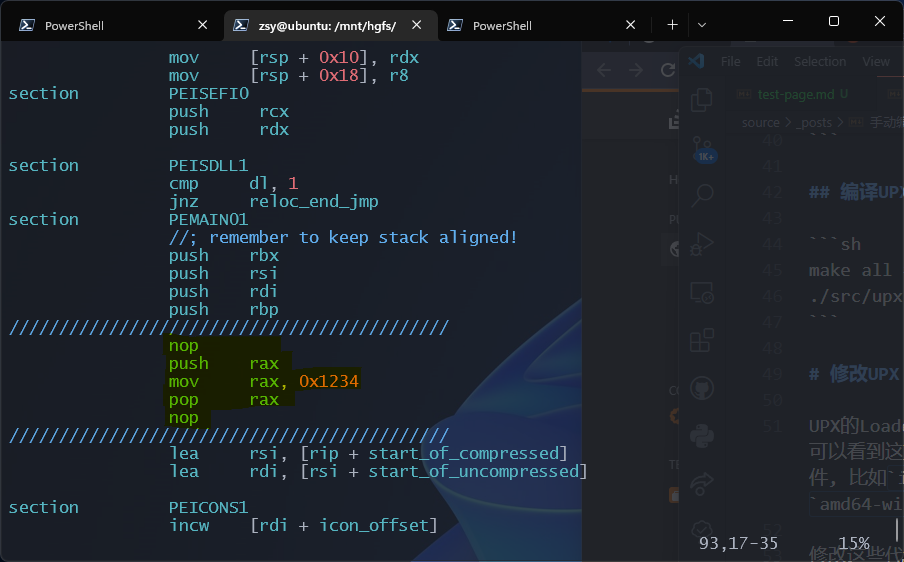
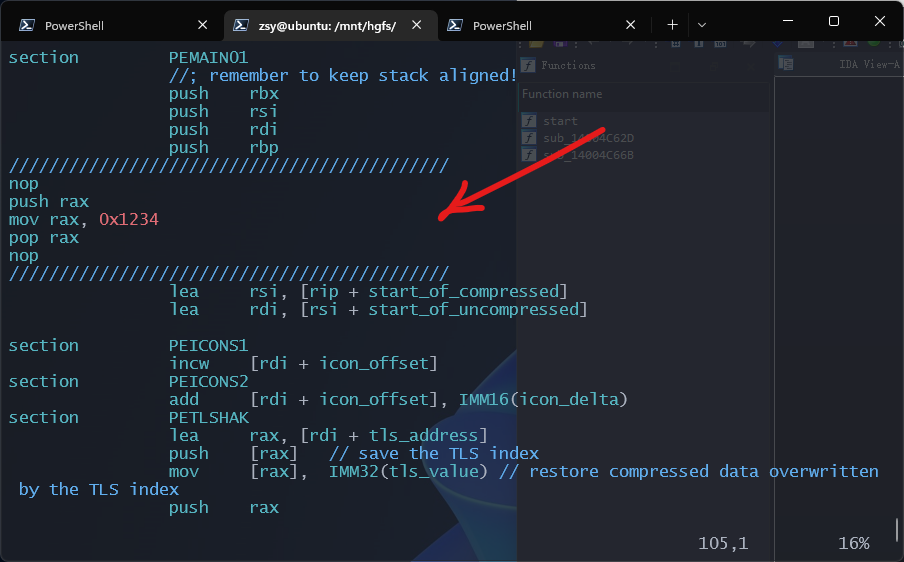
Site updated: 2022-07-14 14:29:14

diff --git a/2022/07/14/手动编译UPX并修改Loader/index.html b/2022/07/14/手动编译UPX并修改Loader/index.html
@@ -87,8 +87,9 @@
 <meta property="og:description" content="编译UPX源码系统环境:  Ubuntu 22.04 Python 2 Gcc 11, G++ 11, Make 4.3  获取UPX源码123git clone --recursive https:&#x2F;&#x2F;github.com&#x2F;upx&#x2F;upx.git # --recursive 用于将lzma-sdk子模块一并获取cd upx  安装&amp;配置必要库12sudo apt install libu">
 <meta property="og:locale">
 <meta property="og:image" content="https://zsy-arch.github.io/2022/07/14/%E6%89%8B%E5%8A%A8%E7%BC%96%E8%AF%91UPX%E5%B9%B6%E4%BF%AE%E6%94%B9Loader/pic1.png">
+<meta property="og:image" content="https://zsy-arch.github.io/2022/07/14/%E6%89%8B%E5%8A%A8%E7%BC%96%E8%AF%91UPX%E5%B9%B6%E4%BF%AE%E6%94%B9Loader/pic2.png">
 <meta property="article:published_time" content="2022-07-14T05:44:02.000Z">
-<meta property="article:modified_time" content="2022-07-14T06:16:10.243Z">
+<meta property="article:modified_time" content="2022-07-14T06:29:02.492Z">
 <meta property="article:author" content="zsy">
 <meta property="article:tag" content="UPX">
 <meta property="article:tag" content="Binary Security">
@@ -317,10 +318,23 @@
 
 <h2 id="编译UPX源码-1"><a href="#编译UPX源码-1" class="headerlink" title="编译UPX源码"></a>编译UPX源码</h2><figure class="highlight sh"><table><tr><td class="gutter"><pre><span class="line">1</span><br><span class="line">2</span><br></pre></td><td class="code"><pre><span class="line">make all <span class="comment"># 编译</span></span><br><span class="line">./src/upx.out <span class="comment"># 运行UPX</span></span><br></pre></td></tr></table></figure>
 
-<h1 id="修改UPX-Loader"><a href="#修改UPX-Loader" class="headerlink" title="修改UPX Loader"></a>修改UPX Loader</h1><p>UPX的Loader用于加载、解压, 在src/stub/src目录下可以看到这种名字为<code>架构-系统.类型.S</code>的汇编代码文件, 比如<code>i386-linux.elf-entry.S</code>和<code>amd64-win64.pep.S</code>.</p>
-<p>修改这些代码然后重新编译UPX(<code>make all</code>)就可以了.</p>
+<h1 id="修改UPX-Loader"><a href="#修改UPX-Loader" class="headerlink" title="修改UPX Loader"></a>修改UPX Loader</h1><p>UPX的Loader用于加载、解压, 在src/stub/src目录下可以看到这种名字为<code>架构-系统.类型.S</code>的汇编代码文件, 比如<code>i386-linux.elf-entry.S</code>和<code>amd64-win64.pep.S</code>. 修改这些代码然后重新编译UPX(<code>make all</code>)就可以了.</p>
+<p>以<code>amd64-win64.pep.S</code>为例(也就是Windows 64位PE):</p>
+<p>我们在section PEMAIN01中加入以下代码:</p>
+<figure class="highlight plaintext"><table><tr><td class="gutter"><pre><span class="line">1</span><br><span class="line">2</span><br><span class="line">3</span><br><span class="line">4</span><br><span class="line">5</span><br></pre></td><td class="code"><pre><span class="line">nop</span><br><span class="line">push rax</span><br><span class="line">mov rax, 0x1234</span><br><span class="line">pop rax</span><br><span class="line">nop</span><br></pre></td></tr></table></figure>
+
 <img src="/2022/07/14/%E6%89%8B%E5%8A%A8%E7%BC%96%E8%AF%91UPX%E5%B9%B6%E4%BF%AE%E6%94%B9Loader/pic1.png" class="" title="custom loader">
 
+<p>保存修改后,重新编译UPX:</p>
+<figure class="highlight plaintext"><table><tr><td class="gutter"><pre><span class="line">1</span><br></pre></td><td class="code"><pre><span class="line">make all</span><br></pre></td></tr></table></figure>
+
+<p>然后对某个程序进行加壳(<code>tests/test1.exe</code>是一个我自己写的Hello World测试程序, 且使用Windows 64位编译器中编译):</p>
+<figure class="highlight plaintext"><table><tr><td class="gutter"><pre><span class="line">1</span><br><span class="line">2</span><br><span class="line">3</span><br><span class="line">4</span><br><span class="line">5</span><br><span class="line">6</span><br><span class="line">7</span><br><span class="line">8</span><br><span class="line">9</span><br><span class="line">10</span><br><span class="line">11</span><br><span class="line">12</span><br><span class="line">13</span><br><span class="line">14</span><br><span class="line">15</span><br></pre></td><td class="code"><pre><span class="line">zsy@ubuntu:/mnt/hgfs/E/CODE/git/upx$ file tests/test1.exe</span><br><span class="line">tests/test1.exe: PE32+ executable (console) x86-64, for MS Windows</span><br><span class="line"></span><br><span class="line">zsy@ubuntu:/mnt/hgfs/E/CODE/git/upx$ ./src/upx.out tests/test1.exe -o tests/test1-p1.exe</span><br><span class="line">                       Ultimate Packer for eXecutables</span><br><span class="line">                          Copyright (C) 1996 - 2021</span><br><span class="line">UPX git-d61edc+ Markus Oberhumer, Laszlo Molnar &amp; John Reiser    Jan 1st 2021</span><br><span class="line"></span><br><span class="line">        File size         Ratio      Format      Name</span><br><span class="line">   --------------------   ------   -----------   -----------</span><br><span class="line">    297288 -&gt;    135496   45.58%    win64/pe     test1-p1.exe</span><br><span class="line"></span><br><span class="line">Packed 1 file.</span><br><span class="line"></span><br><span class="line">WARNING: this is an unstable beta version - use for testing only! Really.</span><br></pre></td></tr></table></figure>
+
+<p>使用IDA打开UPX加壳后的<code>test1-p1.exe</code>:</p>
+<img src="/2022/07/14/%E6%89%8B%E5%8A%A8%E7%BC%96%E8%AF%91UPX%E5%B9%B6%E4%BF%AE%E6%94%B9Loader/pic2.png" class="" title="IDA">
+
+<p>可以发现UPX Loader已经成功修改.</p>
 
       
     </div>

diff --git a/index.html b/index.html
@@ -315,10 +315,23 @@
 
 <h2 id="编译UPX源码-1"><a href="#编译UPX源码-1" class="headerlink" title="编译UPX源码"></a>编译UPX源码</h2><figure class="highlight sh"><table><tr><td class="gutter"><pre><span class="line">1</span><br><span class="line">2</span><br></pre></td><td class="code"><pre><span class="line">make all <span class="comment"># 编译</span></span><br><span class="line">./src/upx.out <span class="comment"># 运行UPX</span></span><br></pre></td></tr></table></figure>
 
-<h1 id="修改UPX-Loader"><a href="#修改UPX-Loader" class="headerlink" title="修改UPX Loader"></a>修改UPX Loader</h1><p>UPX的Loader用于加载、解压, 在src/stub/src目录下可以看到这种名字为<code>架构-系统.类型.S</code>的汇编代码文件, 比如<code>i386-linux.elf-entry.S</code>和<code>amd64-win64.pep.S</code>.</p>
-<p>修改这些代码然后重新编译UPX(<code>make all</code>)就可以了.</p>
+<h1 id="修改UPX-Loader"><a href="#修改UPX-Loader" class="headerlink" title="修改UPX Loader"></a>修改UPX Loader</h1><p>UPX的Loader用于加载、解压, 在src/stub/src目录下可以看到这种名字为<code>架构-系统.类型.S</code>的汇编代码文件, 比如<code>i386-linux.elf-entry.S</code>和<code>amd64-win64.pep.S</code>. 修改这些代码然后重新编译UPX(<code>make all</code>)就可以了.</p>
+<p>以<code>amd64-win64.pep.S</code>为例(也就是Windows 64位PE):</p>
+<p>我们在section PEMAIN01中加入以下代码:</p>
+<figure class="highlight plaintext"><table><tr><td class="gutter"><pre><span class="line">1</span><br><span class="line">2</span><br><span class="line">3</span><br><span class="line">4</span><br><span class="line">5</span><br></pre></td><td class="code"><pre><span class="line">nop</span><br><span class="line">push rax</span><br><span class="line">mov rax, 0x1234</span><br><span class="line">pop rax</span><br><span class="line">nop</span><br></pre></td></tr></table></figure>
+
 <img src="/2022/07/14/%E6%89%8B%E5%8A%A8%E7%BC%96%E8%AF%91UPX%E5%B9%B6%E4%BF%AE%E6%94%B9Loader/pic1.png" class="" title="custom loader">
 
+<p>保存修改后,重新编译UPX:</p>
+<figure class="highlight plaintext"><table><tr><td class="gutter"><pre><span class="line">1</span><br></pre></td><td class="code"><pre><span class="line">make all</span><br></pre></td></tr></table></figure>
+
+<p>然后对某个程序进行加壳(<code>tests/test1.exe</code>是一个我自己写的Hello World测试程序, 且使用Windows 64位编译器中编译):</p>
+<figure class="highlight plaintext"><table><tr><td class="gutter"><pre><span class="line">1</span><br><span class="line">2</span><br><span class="line">3</span><br><span class="line">4</span><br><span class="line">5</span><br><span class="line">6</span><br><span class="line">7</span><br><span class="line">8</span><br><span class="line">9</span><br><span class="line">10</span><br><span class="line">11</span><br><span class="line">12</span><br><span class="line">13</span><br><span class="line">14</span><br><span class="line">15</span><br></pre></td><td class="code"><pre><span class="line">zsy@ubuntu:/mnt/hgfs/E/CODE/git/upx$ file tests/test1.exe</span><br><span class="line">tests/test1.exe: PE32+ executable (console) x86-64, for MS Windows</span><br><span class="line"></span><br><span class="line">zsy@ubuntu:/mnt/hgfs/E/CODE/git/upx$ ./src/upx.out tests/test1.exe -o tests/test1-p1.exe</span><br><span class="line">                       Ultimate Packer for eXecutables</span><br><span class="line">                          Copyright (C) 1996 - 2021</span><br><span class="line">UPX git-d61edc+ Markus Oberhumer, Laszlo Molnar &amp; John Reiser    Jan 1st 2021</span><br><span class="line"></span><br><span class="line">        File size         Ratio      Format      Name</span><br><span class="line">   --------------------   ------   -----------   -----------</span><br><span class="line">    297288 -&gt;    135496   45.58%    win64/pe     test1-p1.exe</span><br><span class="line"></span><br><span class="line">Packed 1 file.</span><br><span class="line"></span><br><span class="line">WARNING: this is an unstable beta version - use for testing only! Really.</span><br></pre></td></tr></table></figure>
+
+<p>使用IDA打开UPX加壳后的<code>test1-p1.exe</code>:</p>
+<img src="/2022/07/14/%E6%89%8B%E5%8A%A8%E7%BC%96%E8%AF%91UPX%E5%B9%B6%E4%BF%AE%E6%94%B9Loader/pic2.png" class="" title="IDA">
+
+<p>可以发现UPX Loader已经成功修改.</p>
 
           
         
